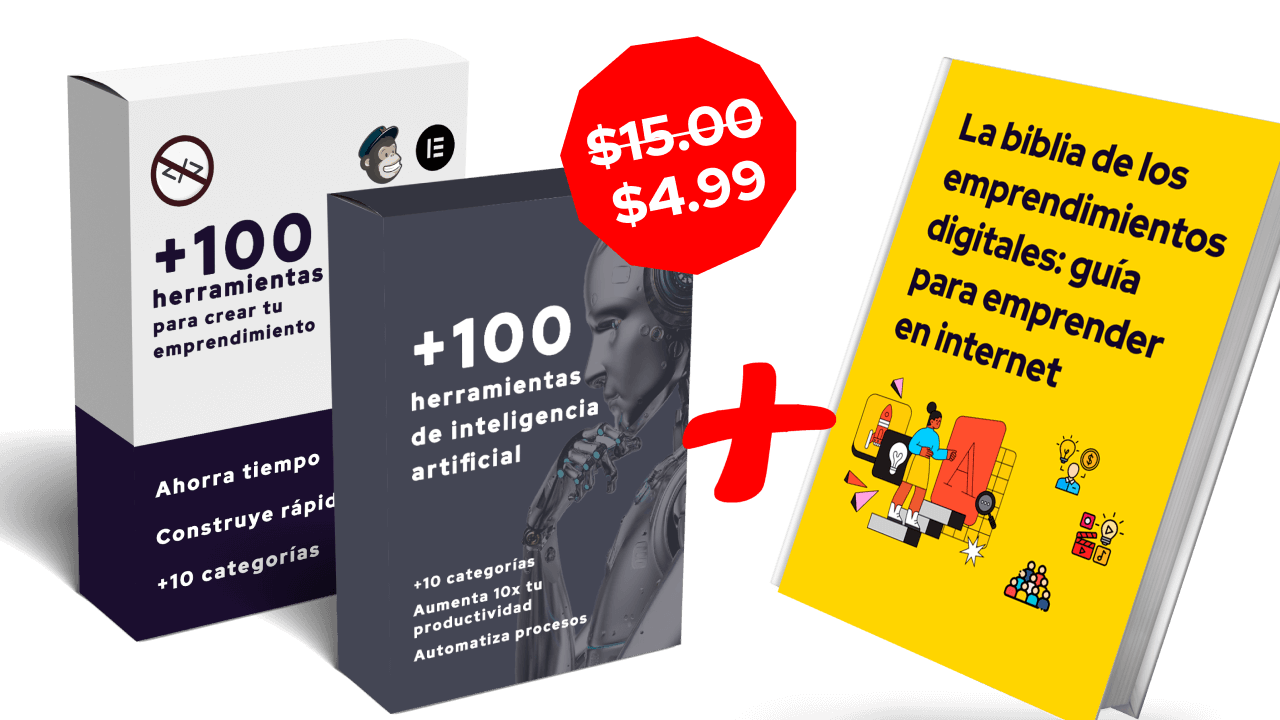
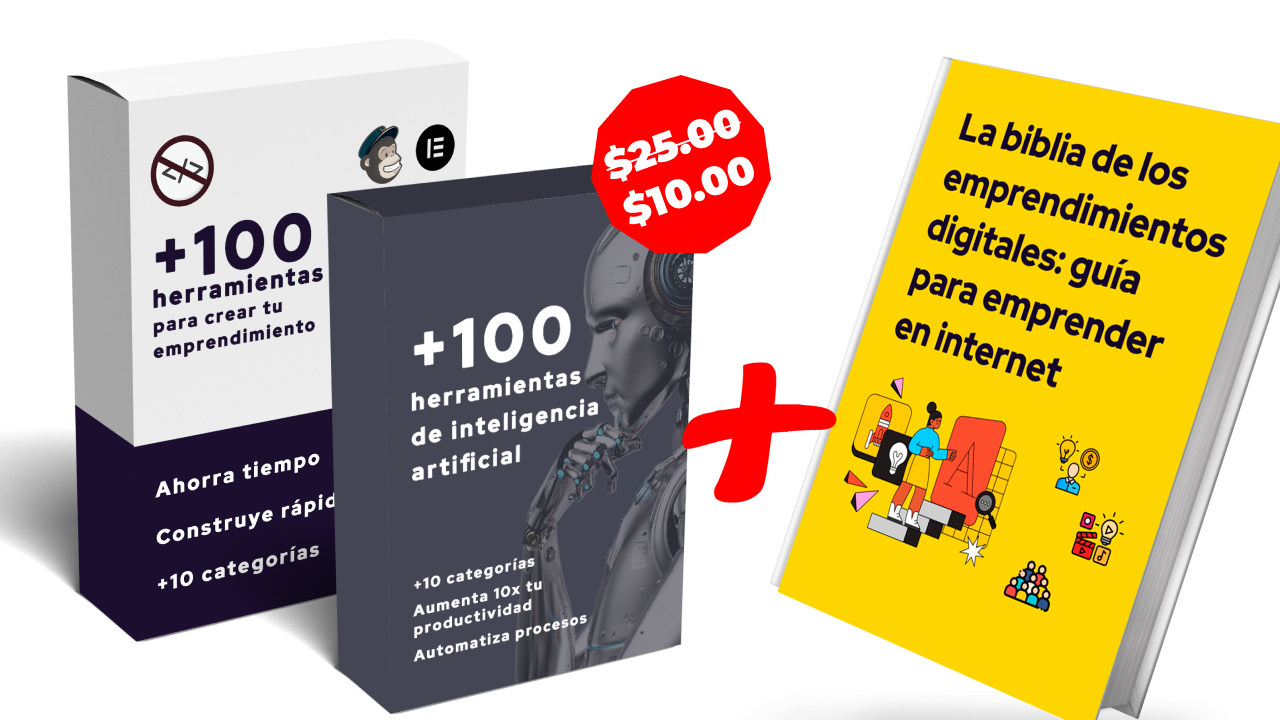
update

Changed region(s): [[0.4375, 0.0306, 0.625, 0.3972]]

diff --git a/emprendimiento-digital.html b/emprendimiento-digital.html
@@ -222,7 +222,7 @@
     </section>
 
     <section>
-        <h1>Por eso decidí colocar un precio asequible de <mark>$15</mark> a la guía y al kit con +200 herramientas</h1>
+        <h1>Por eso decidí colocar un precio asequible de <mark>$25</mark> a la guía y al kit con +200 herramientas</h1>
 
     </section>
 
